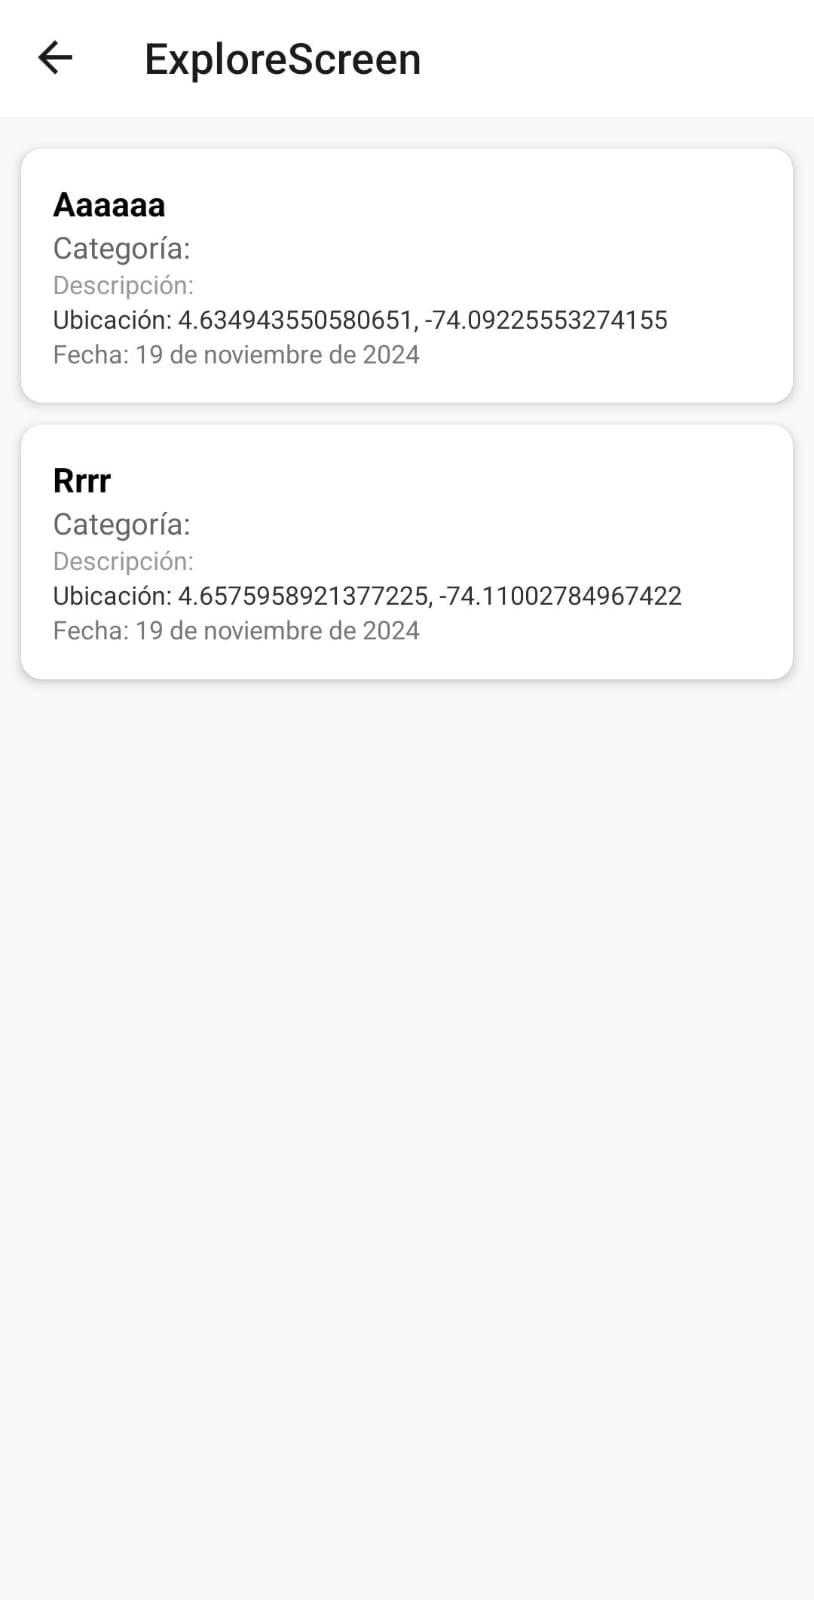
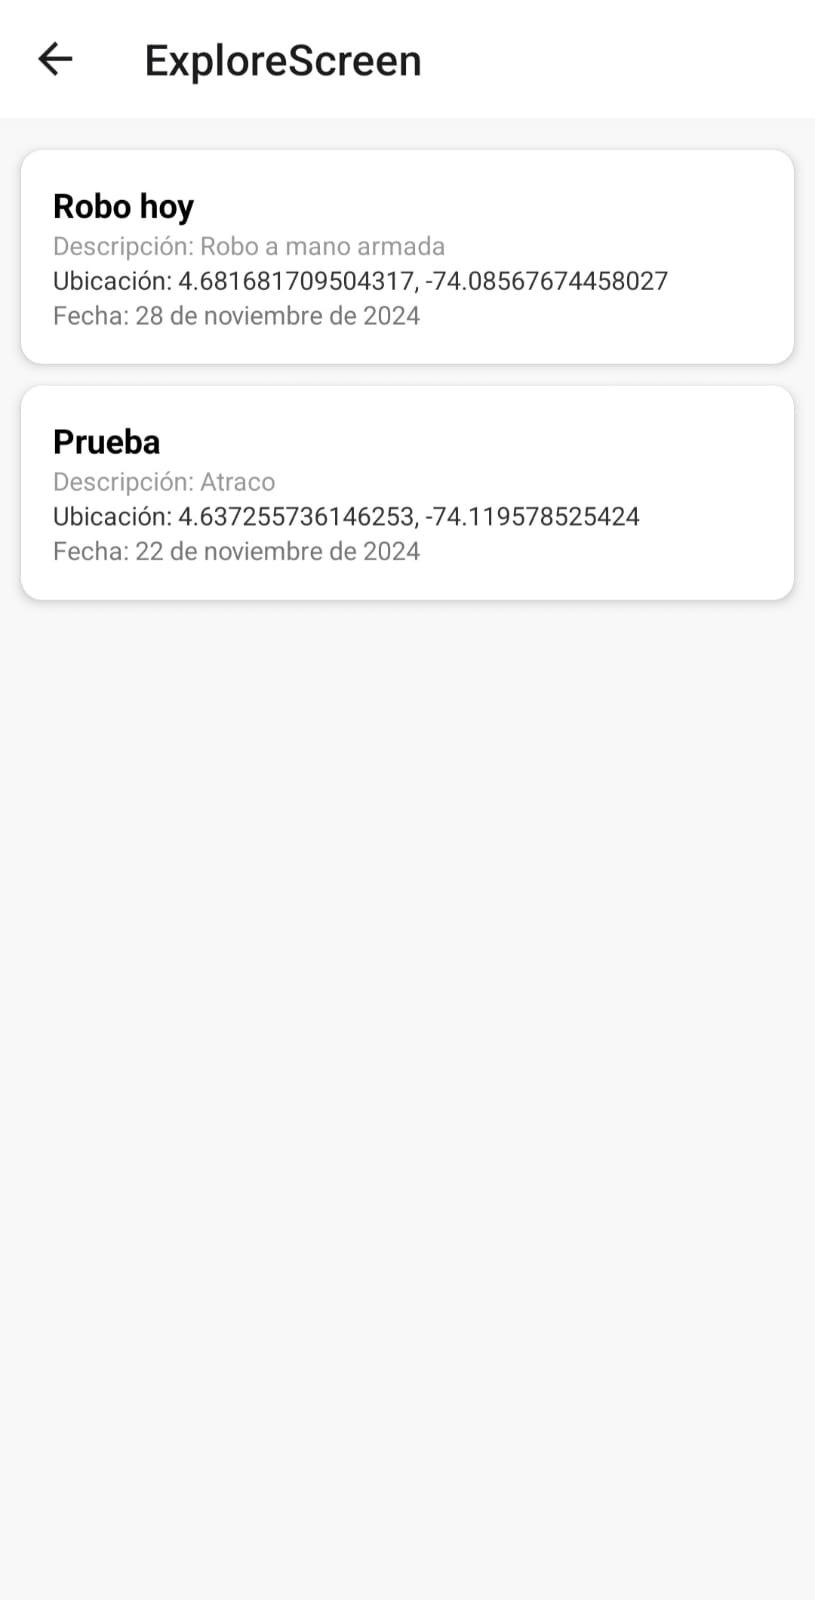
imagenes

Changed region(s): [[0.0614, 0.125, 0.8292, 0.4062], [0.1843, 0.0312, 0.5221, 0.0625], [0.0614, 0.0312, 0.0921, 0.0625]]

diff --git a/HomeScreen.js b/HomeScreen.js
@@ -84,7 +84,7 @@ const HomeScreen = ({ navigation }) => {
                 longitude: alert.selectedLocation.longitude,
               }}
               title={alert.title}
-              description={`Categoría: ${alert.category}\nDescripción: ${alert.description}`}
+              description={`Descripción: ${alert.description}`}
             />
           )
         ))}
@@ -110,7 +110,6 @@ const HomeScreen = ({ navigation }) => {
         renderItem={({ item }) => (
           <View style={styles.alertContainer}>
             <Text style={styles.alertTitle}>{item.title}</Text>
-            <Text style={styles.alertText}>Categoría: {item.category}</Text>
             <Text style={styles.alertText}>Descripción: {item.description}</Text>
           </View>
         )}

diff --git a/ExploreScreen.js b/ExploreScreen.js
@@ -7,7 +7,6 @@ const ExploreScreen = ({ route }) => {
   const renderAlertItem = ({ item }) => (
     <View style={styles.alertCard}>
       <Text style={styles.alertTitle}>{item.title}</Text>
-      <Text style={styles.alertSubtitle}>Categoría: {item.category}</Text>
       <Text style={styles.alertDescription}>Descripción: {item.description}</Text>
       <Text style={styles.alertLocation}>
         Ubicación: {item.selectedLocation ? `${item.selectedLocation.latitude}, ${item.selectedLocation.longitude}` : 'No especificada'}
